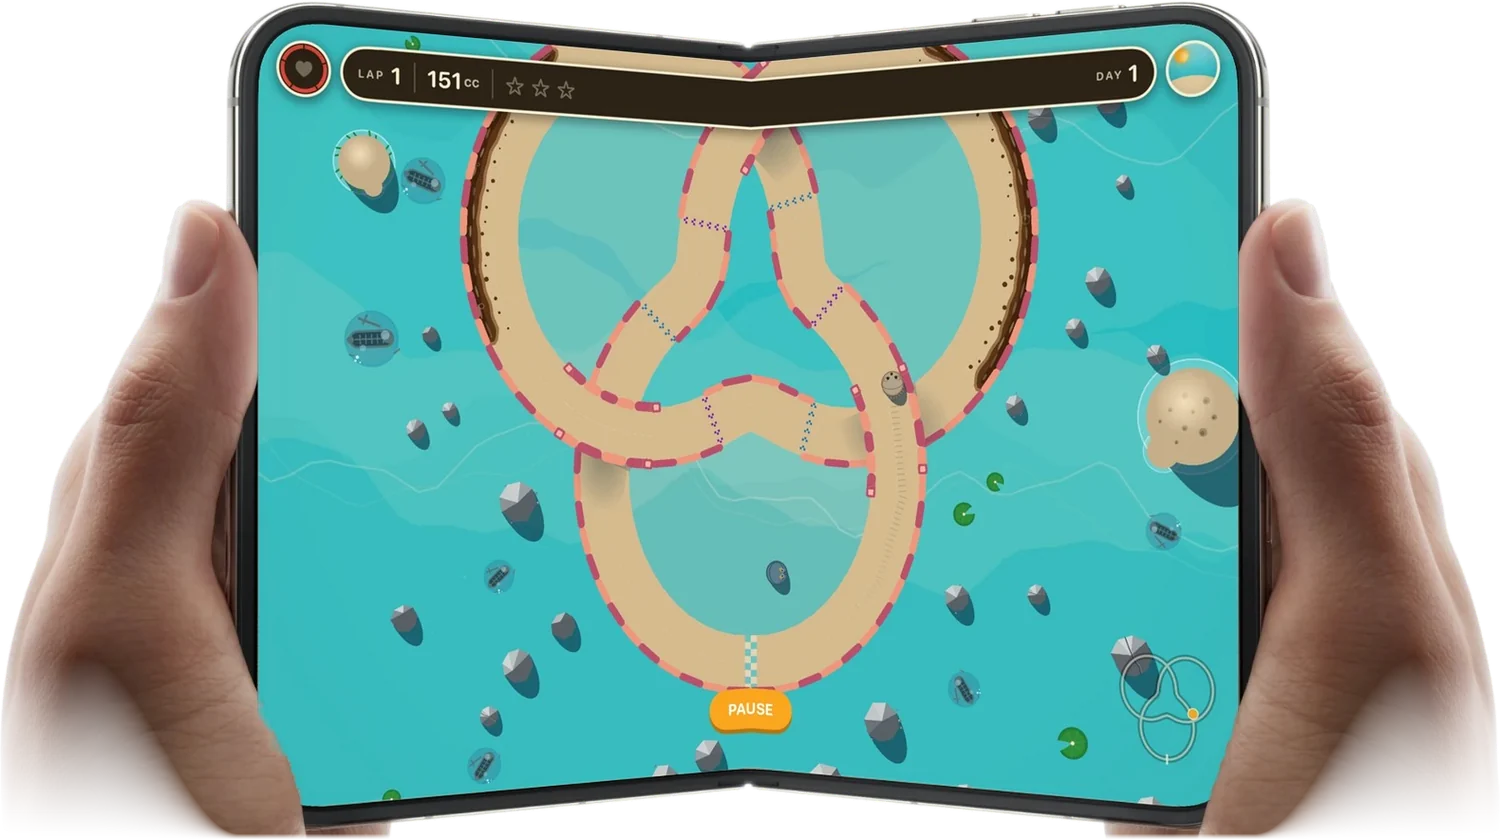
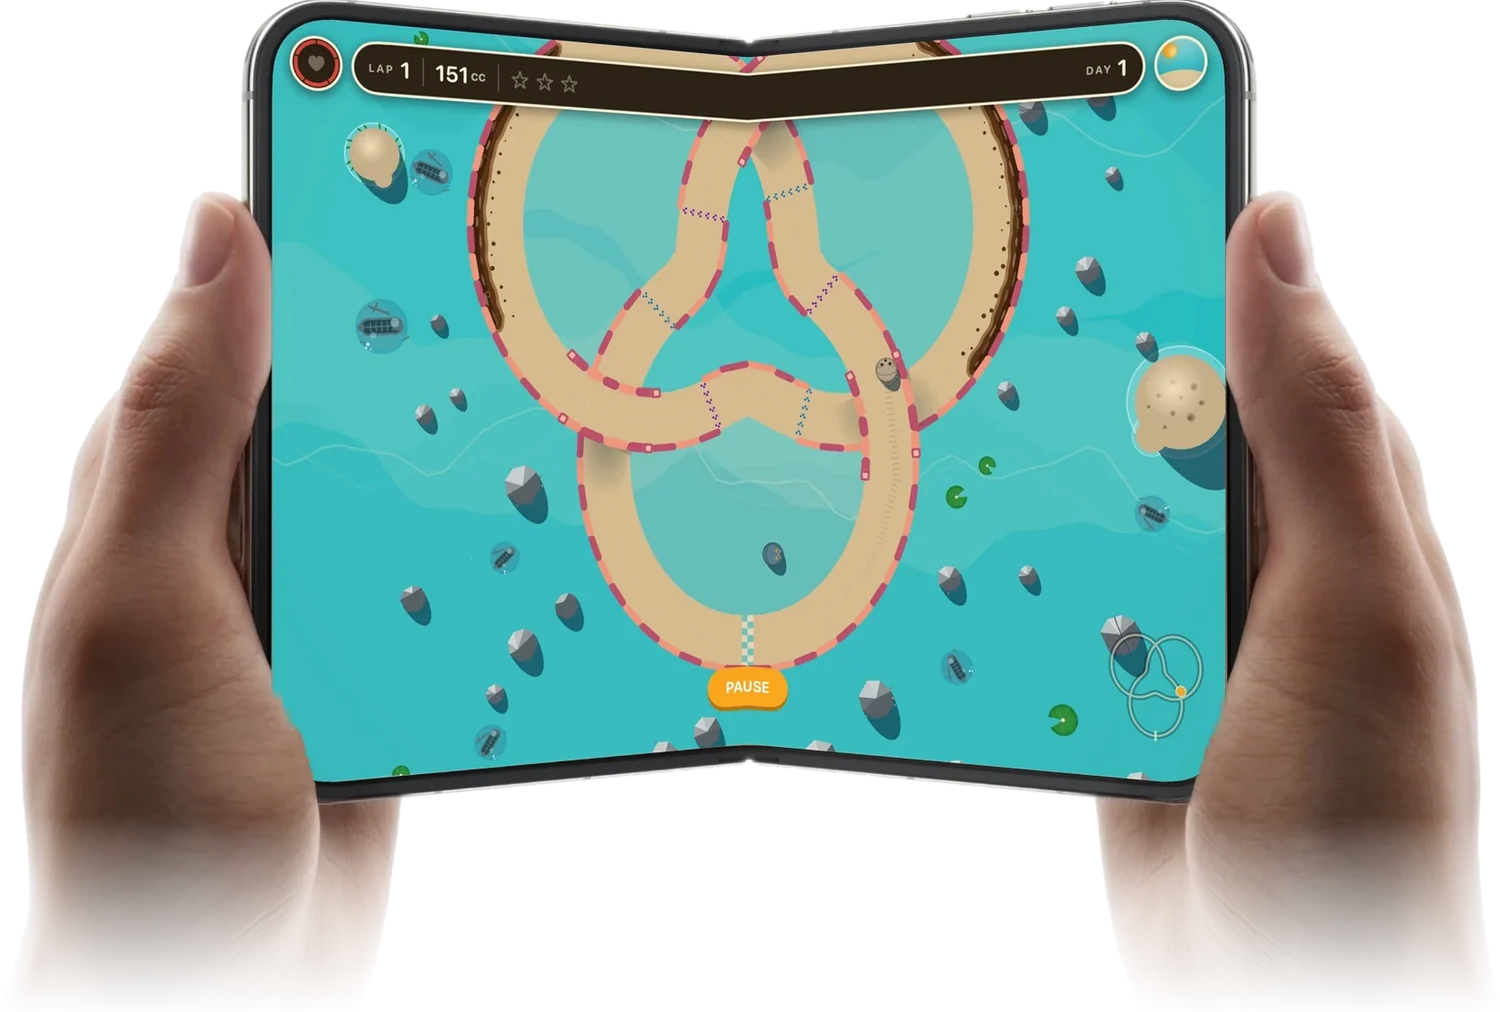
Animal Loop: use the cleaner open iPhone Duo photo
Rebuild the open iPhone Duo image from a photo without the launch text
and pre-order bar, so the hands fade out naturally below the phone.

Claude-Session: https://claude.ai/code/session_01D4igWGyBNokbvwgZ7sUkR1

diff --git a/animal-loop/index.html b/animal-loop/index.html
@@ -407,7 +407,7 @@
   <div class="lineup">
     <figure style="--ar: 0.733"><img src="assets/iphone-in-hand.webp" alt="A Dune Flats track in Animal Loop on an iPhone held in one hand" width="740" height="1009" loading="lazy"><figcaption class="cap">iPhone</figcaption></figure>
     <figure style="--ar: 0.773"><img src="assets/duo-in-hand.webp" alt="Animal Loop's Fern Hollow track on an iPhone Duo held in one hand" width="860" height="1112" loading="lazy"><figcaption class="cap">iPhone Duo, folded</figcaption></figure>
-    <figure class="open" style="--ar: 1.788"><img src="assets/duo-open-in-hands.webp" alt="Animal Loop's Coral Shallows trefoil track across the open iPhone Duo, held in two hands" width="1500" height="839" loading="lazy"><figcaption class="cap">iPhone Duo, open</figcaption></figure>
+    <figure class="open" style="--ar: 1.482"><img src="assets/duo-open-in-hands.webp" alt="Animal Loop's Coral Shallows trefoil track across the open iPhone Duo, held in two hands" width="1500" height="1012" loading="lazy"><figcaption class="cap">iPhone Duo, open</figcaption></figure>
   </div>
 </section>
 
